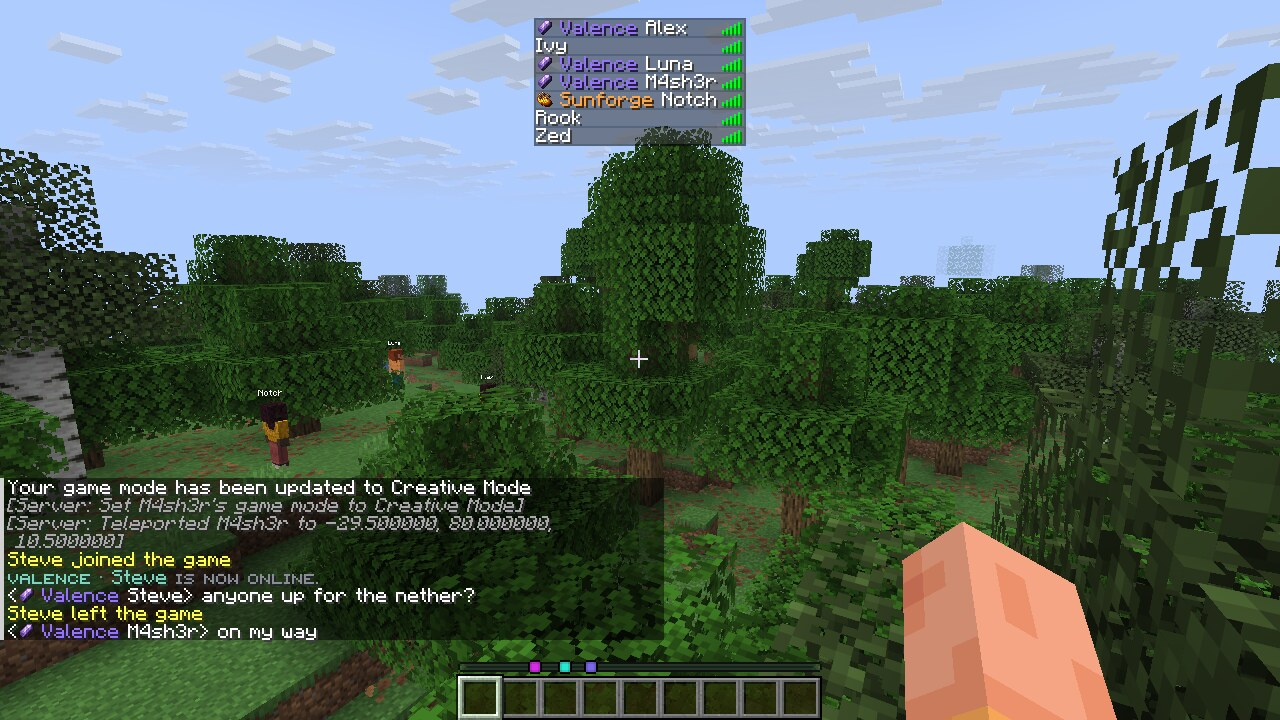
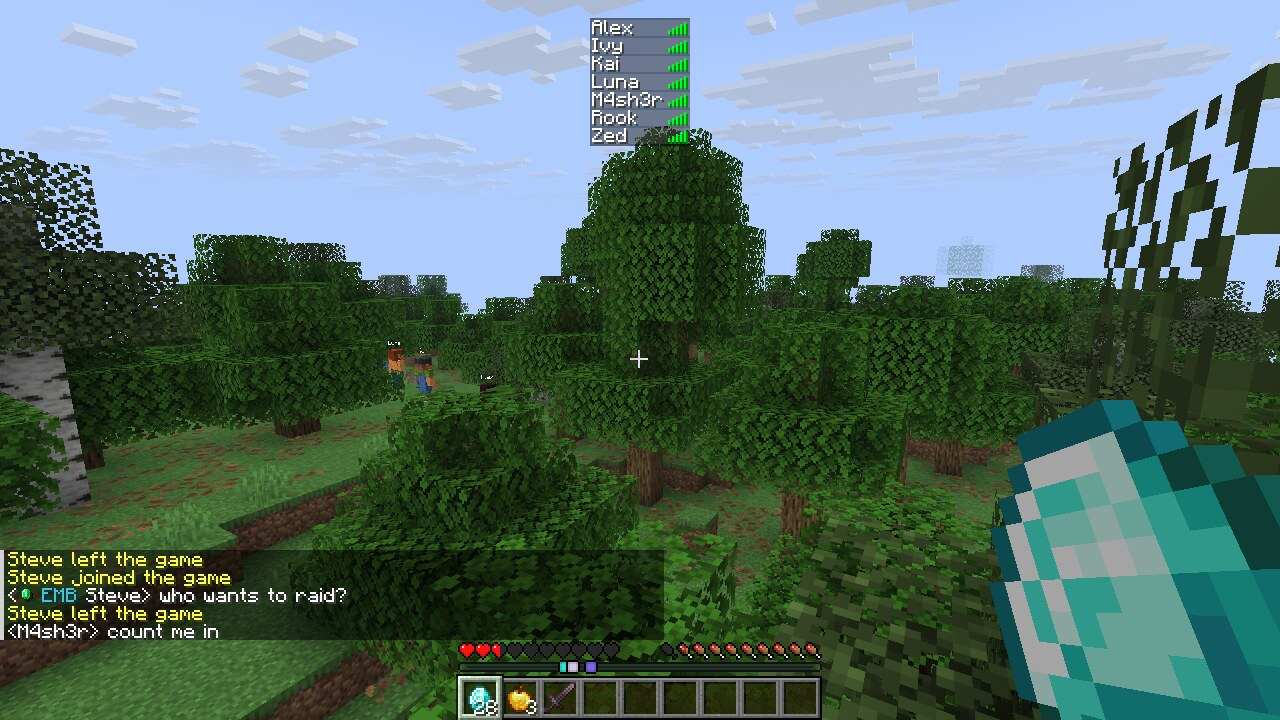
Use the team tag in the default prefix
Claude-Session: https://claude.ai/code/session_01DYLjSbucuaNmNZqiK4jC5t

diff --git a/src/main/java/dev/m4sh3r/valence/config/Settings.java b/src/main/java/dev/m4sh3r/valence/config/Settings.java
@@ -97,7 +97,7 @@ public final class Settings {
         homeWarmup = config.getInt("home.warmup-seconds", 3);
         homeCooldown = config.getInt("home.cooldown-seconds", 30);
 
-        prefixFormat = config.getString("prefix.format", "<team_icon> <team_color><team_name></team_color> ");
+        prefixFormat = config.getString("prefix.format", "<team_icon> <team_color><team_tag></team_color> ");
         prefixChat = config.getBoolean("prefix.chat", true);
         prefixTab = config.getBoolean("prefix.tab-list", true);
 

diff --git a/README.md b/README.md
@@ -46,7 +46,7 @@ In a 95 second stress test, 10 players opened 4,516 menus (about 48 per second) 
   - **Disband while open:** the items go to whoever has the chest open, never to a deleted team.
   - **Old saves:** a slow background save can't overwrite a newer one, and a deleted team's file never comes back.
 - **Personal friendly fire.** Teammates can't hurt each other. Each player can turn friendly fire on for themselves (`/team ff` or the menu button), and two teammates can only fight when both have it on. Covers melee, arrows, tamed pets and harmful splash potions.
-- **Team prefix.** Shows the team's item icon and name in its color before player names in chat and in the tab list. The format is set in `config.yml`, and both places can be turned off.
+- **Team prefix.** Shows the team's item icon and tag (like VAL) in its color before player names in chat and in the tab list. The format is set in `config.yml`, and both places can be turned off.
 - **Small caps chat.** Every chat reply looks like ᴛʜɪꜱ. Commands and player names keep the normal font.
 
 ## Commands
